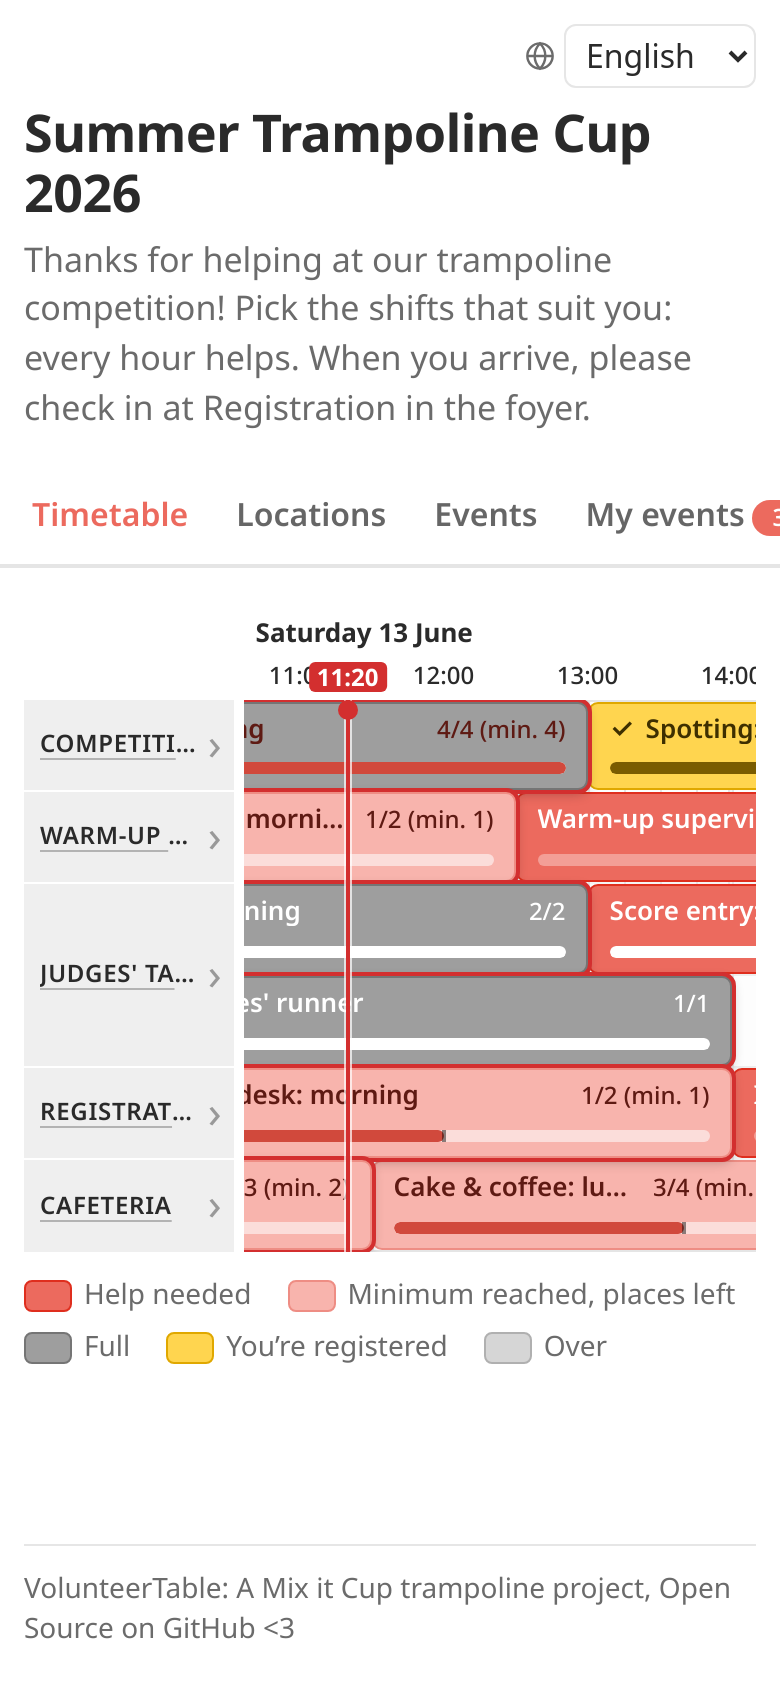
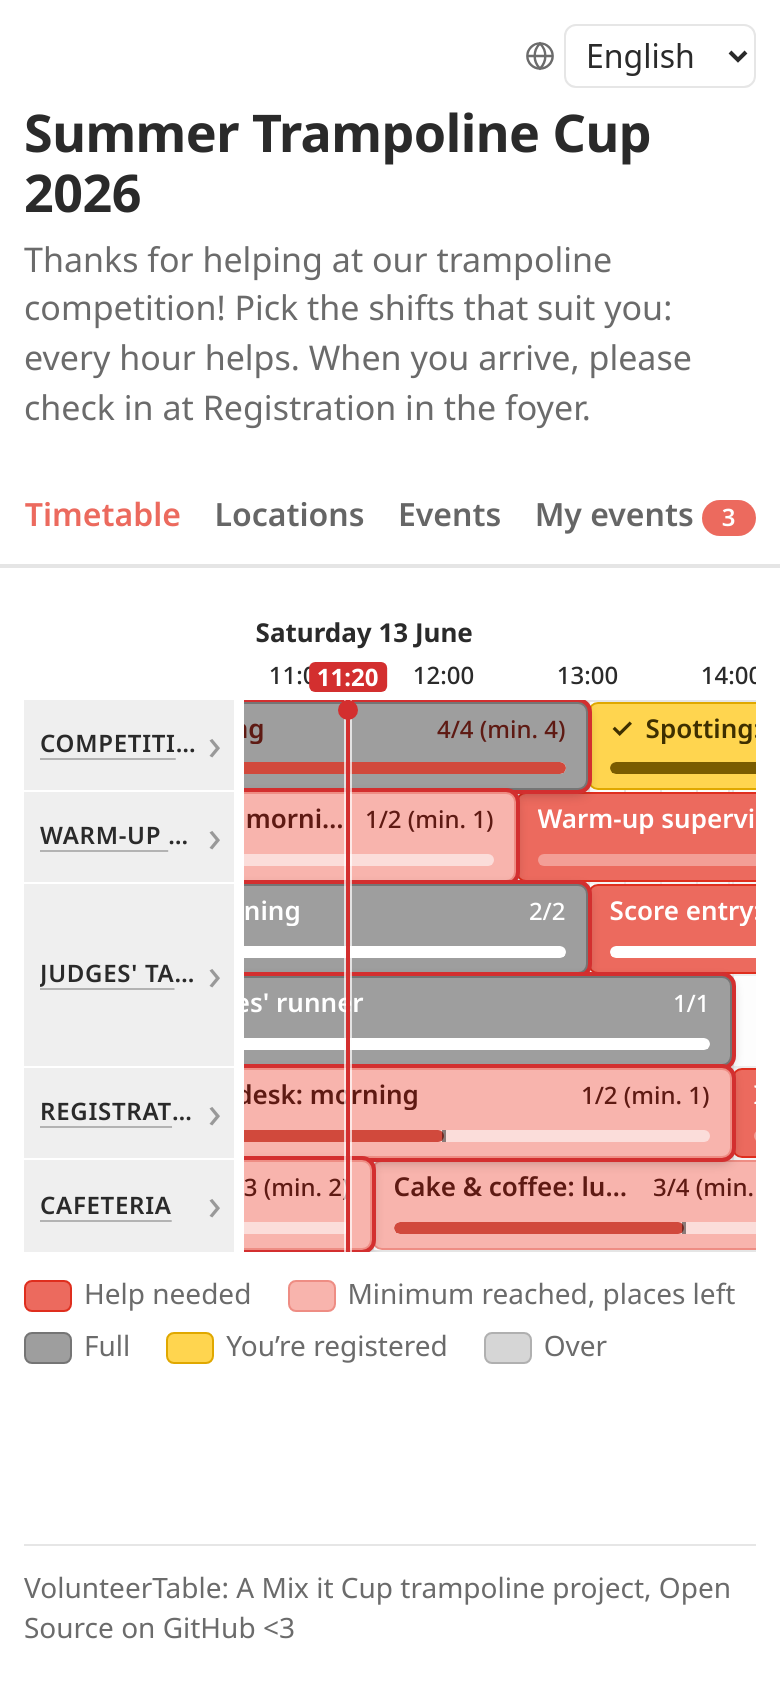
UI: Fix formatting & update screenshots
The tab row was not well formatted on phones. Also update screenshots to have the same aspect ratio.

diff --git a/public/style.css b/public/style.css
@@ -831,9 +831,11 @@ body.no-access .tab-panel {
     display: none;
   }
 
+  /* Tabs share the width (four fit on a 390px phone); if they don't fit, the row scrolls. */
   .tabs a {
-    flex: none;
-    padding: 12px 12px;
+    flex: 1 0 auto;
+    padding: 12px 8px;
+    text-align: center;
     white-space: nowrap;
   }
 
